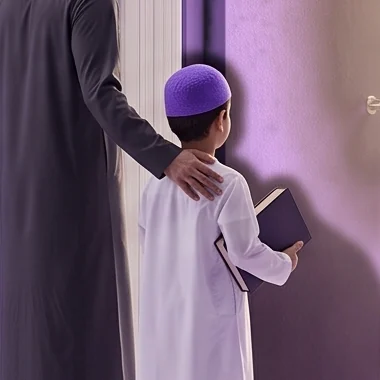
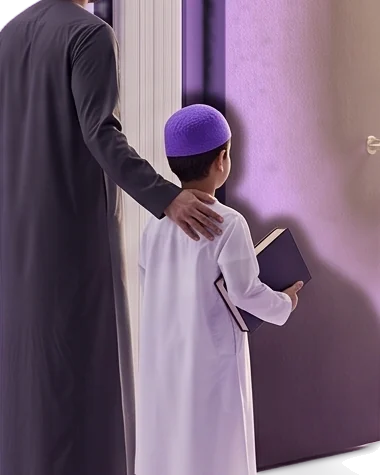
fix(site): prix en grand sans cartes, Tarifs sans grille en double, chapitres en arche, étapes alignées
- Accueil : les deux prix se lisent en grand (150 px à 1440), sans carte ; public et contenu du prix dessous.
- Tarifs : les deux prix du haut sans boîte ; la grille « Le prix de chaque formule », qui les répétait,
  est retirée ; ses mentions (date d'effet, monnaies, taxes) passent sous les prix et le simulateur suit.
  Images : l'arche sombre en haut, le tapis aux remises ; quatre images, chacune une fois.
- Fenêtre des chapitres : une seule forme, l'arche (père et fils recadrés en arche) ; seules les mains
  restent détourées. Texte des chapitres sur la colonne 7, comme les autres paires ; aucune image agrandie.
- Comment ça marche : cartes d'étapes alignées en haut, de même hauteur, l'image sur la moitié de la carte.
- « Les cours en bref » : mot pour mot ; la ligne du prix se lit en grand et s'aligne d'un encart à l'autre.

Claude-Session: https://claude.ai/code/session_01HmAusA3MF1Z2BLvX9RiCbN

diff --git a/site-public/styles/site.css b/site-public/styles/site.css
@@ -358,11 +358,13 @@ li, dd { text-wrap: wrap; }
 .appel__phrase { overflow-wrap: anywhere; }
 .section__grille > *, .contact-ligne > *, .entete-page > *, .groupe > *, .faq-tuiles > * { min-width: 0; }
 .chapitres { display: grid; grid-template-columns: repeat(12, minmax(0, 1fr)); column-gap: var(--e-6); padding: 0 var(--marge) var(--respire); max-width: calc(var(--contenu) + 2 * var(--marge)); margin-inline: auto; }
-.chapitres__fenetre { grid-column: 1 / span 7; position: sticky; top: calc(var(--entete) + 4svh); height: calc(100svh - var(--entete) - 8svh); display: none; }
+.chapitres__fenetre { grid-column: 1 / span 6; position: sticky; top: calc(var(--entete) + 4svh); height: calc(100svh - var(--entete) - 8svh); display: none; }
 .chapitres__pile { position: relative; height: 100%; border-radius: var(--arche); background: var(--champ); overflow: hidden; }
 .chapitres__image { position: absolute; inset: 4%; display: flex; flex-direction: column; justify-content: center; opacity: var(--o, 0); transform: translateY(calc((1 - var(--o, 0)) * 16px)); transition: opacity var(--mv-navigation) var(--mv-entree), transform var(--mv-navigation) var(--mv-entree); }
 .chapitres__image:first-child { --o: 1; }
 .chapitres__image.scene--cercle > .scene__cadre { flex: none; align-self: center; width: min(100%, calc((100svh - var(--entete) - 8svh) * .92)); }
+/* Les arches de la fenetre (rapport 4/5) : jamais plus larges que leur fichier, ni plus hautes que la fenetre. */
+.chapitres__image.scene--arche > .scene__cadre { flex: none; align-self: center; width: min(100%, var(--natif, 100%), calc((100svh - var(--entete) - 8svh) * .92 * .8)); }
 .chapitres__image figcaption { display: none; }
 .chapitres__textes { grid-column: 1 / -1; }
 .chapitre { padding-block: var(--e-16); }
@@ -381,7 +383,8 @@ li, dd { text-wrap: wrap; }
 .chapitre__image-mobile .scene { border-radius: var(--arche); background: var(--champ); padding: 12% 4% 4%; }
 @media (min-width: 840px) {
   .chapitres__fenetre { display: block; }
-  .chapitres__textes { grid-column: 8 / span 5; }
+  /* Le texte des chapitres part du meme bord que les autres paires de la page (colonne 7). */
+  .chapitres__textes { grid-column: 7 / span 6; }
   .chapitre { min-height: 88svh; display: flex; flex-direction: column; justify-content: center; }
   .chapitres { padding-bottom: var(--e-16); }
   /* Le dernier chapitre a la hauteur de la fenetre et se centre sur elle : quand la fenetre se decolle, son texte
@@ -465,12 +468,22 @@ li, dd { text-wrap: wrap; }
 .champ--adulte { background: var(--marque); color: var(--sur-marque); }
 .deux-champs__pied { padding: var(--e-10) var(--marge) 0; max-width: calc(var(--contenu) + 2 * var(--marge)); margin-inline: auto; }
 .deux-champs__pied p { max-width: 60ch; }
+/* Les deux prix se lisent en grand, sans carte : le chiffre porte la section, le public et ce que le prix comprend
+   se posent dessous, en lignes courtes. */
+.champ, .champ--enfant, .champ--adulte { padding: 0; border-radius: 0; overflow: visible; background: none; color: inherit; }
+.champ h3 { font-size: var(--t-moyen); line-height: 1.2; letter-spacing: -0.015em; }
+.champ__prix { margin-top: var(--e-6); column-gap: var(--e-4); }
+.champ__montant { font-size: clamp(64px, 10.4vw, 150px); line-height: 1; letter-spacing: -0.04em; }
+.champ__inclus { padding-top: var(--e-8); }
+/* Empiles au telephone, les deux prix gardent un vrai ecart entre eux. */
+@media (max-width: 599px) { .deux-champs__grille { row-gap: var(--e-16); } }
 @media (min-width: 600px) {
   /* Les deux cartes partagent leurs lignes : titres, prix, public et listes commencent a la meme hauteur. */
   .deux-champs__grille { grid-template-columns: repeat(2, minmax(0, 1fr)); grid-template-rows: auto auto auto 1fr; column-gap: var(--e-6); }
-  .champ { display: grid; grid-row: span 4; grid-template-rows: subgrid; row-gap: 0; align-content: start; min-height: 64svh; padding: var(--e-12) var(--e-10); }
+  .champ { display: grid; grid-row: span 4; grid-template-rows: subgrid; row-gap: 0; align-content: start; min-height: 0; padding: 0; }
   .champ h3 { align-self: end; }
   .champ__inclus { margin-top: 0; align-self: start; font-size: 18px; }
+  .deux-champs__grille { column-gap: var(--e-16); }
 }
 
 /* --- Panneau sombre en retrait ---------------------------------------------- */
@@ -724,6 +737,13 @@ li, dd { text-wrap: wrap; }
 .fiche__lignes li { padding-inline-start: 1.4em; position: relative; }
 .fiche__lignes li::before { content: ''; position: absolute; inset-inline-start: 0; top: .5em; width: .6em; height: .75em; border-radius: var(--arche); background: currentColor; opacity: .55; }
 @media (min-width: 840px) { .fiches:has(.fiche + .fiche) { grid-template-columns: repeat(2, minmax(0, 1fr)); } .fiche { padding: var(--e-10) var(--e-8); } }
+/* Les encarts restent mot pour mot ; seule leur mise en page change : la ligne du prix se lit en grand, sans puce,
+   comme le chiffre d'une affiche, et les autres lignes respirent davantage. */
+.fiche__lignes { gap: var(--e-4); }
+.fiche__lignes li:nth-child(2) { padding-inline-start: 0; margin-block: var(--e-2) var(--e-4); font-family: 'DM Sans', sans-serif; font-weight: 600; font-size: clamp(30px, 3.2vw, 46px); line-height: 1.05; letter-spacing: -0.03em; }
+.fiche__lignes li:nth-child(2)::before { content: none; }
+/* Cote a cote, les deux lignes de prix s'alignent : la premiere ligne de chaque encart reserve deux lignes. */
+@media (min-width: 840px) { .fiches:has(.fiche + .fiche) .fiche__lignes li:first-child { min-height: calc(2lh); } }
 [data-ambiance="violet"] .fiche { background: #4E2983; }
 [data-ambiance="violet"] .fiche:nth-child(2) { background: #8652E6; }
 
@@ -761,15 +781,13 @@ li, dd { text-wrap: wrap; }
 .etape:nth-child(4) { background: var(--marque); color: var(--sur-marque); }
 .etape .scene figcaption { color: inherit; }
 @media (min-width: 840px) {
-  /* Meme contenu dans chaque carte : les bas s'alignent, les hauts montent d'une marche a chaque etape. */
-  .etapes { grid-template-columns: repeat(2, minmax(0, 1fr)); align-items: start; gap: var(--e-4); }
-  .etape { display: grid; grid-template-columns: minmax(0, 7fr) minmax(0, 13fr); grid-template-rows: auto 1fr; column-gap: var(--e-6); align-content: start; border-radius: 200px var(--r-lg) var(--r-lg) var(--r-lg); padding: var(--e-8); }
+  /* Deux cartes par rangee, de meme hauteur et alignees en haut ; l'image prend la moitie de la carte. */
+  .etapes { grid-template-columns: repeat(2, minmax(0, 1fr)); align-items: stretch; gap: var(--e-4); }
+  .etape { display: grid; grid-template-columns: minmax(0, 1fr) minmax(0, 1fr); grid-template-rows: auto 1fr; column-gap: var(--e-8); align-content: start; border-radius: 200px var(--r-lg) var(--r-lg) var(--r-lg); padding: var(--e-8); }
   .etape .section__figure { grid-column: 1; grid-row: 1 / span 2; margin: 0; aspect-ratio: auto; }
   .etape .section__figure .scene { width: 100%; }
   .etape h2, .etape .etape__corps { grid-column: 2; }
   .etape h2 { align-self: end; padding-top: var(--e-4); }
-  /* Les deux etapes de droite descendent d'une marche : l'ordre se lit en escalier. */
-  .etape:nth-child(even) { margin-top: var(--e-12); }
   /* Le texte d'une carte d'etape se lit a 18 px sur environ 40 signes : les lignes se remplissent. */
   .etape .etape__corps { font-size: 18px; }
 }
@@ -944,7 +962,6 @@ li, dd { text-wrap: wrap; }
 }
 @media (max-width: 599px) {
   .site-header__brand img { height: 36px; }
-  .champ h3 { font-size: var(--t-titre); }
   .simulator__fields { grid-template-columns: 1fr; }
   .simulator { padding: var(--e-5); }
   .action-row .cta { flex: 1 1 100%; }
@@ -1075,10 +1092,11 @@ li, dd { text-wrap: wrap; }
    Comment ca marche sur ses etapes, l'Academie sur la boucle. */
 .entete-page--haut-texte, .entete-page--haut-parcours, .entete-page--haut-prix { min-height: 0; padding-bottom: 0; }
 .entete-page--haut-parcours .parcours--haut { margin-top: var(--e-6); }
-.entete-prix { display: grid; gap: var(--e-3); }
-.entete-prix__bloc { display: grid; gap: var(--e-1); padding: var(--e-6); border-radius: var(--r-lg); background: var(--sous); max-width: none; }
-.entete-prix__bloc + .entete-prix__bloc { background: var(--marque); color: var(--sur-marque); }
-.entete-prix__montant { font-family: 'DM Sans', sans-serif; font-weight: 600; font-size: var(--t-affiche); line-height: 1; letter-spacing: -0.02em; font-variant-numeric: tabular-nums; }
+.entete-prix { display: grid; row-gap: var(--e-8); column-gap: var(--e-3); }
+/* Les deux prix du haut de Tarifs, en grand et sans boite, comme sur l'accueil. */
+.entete-prix__bloc { display: grid; gap: var(--e-1); padding: 0; max-width: none; }
+.entete-prix__montant { font-family: 'DM Sans', sans-serif; font-weight: 600; font-size: var(--t-affiche); line-height: 1; letter-spacing: -0.04em; font-variant-numeric: tabular-nums; }
+.entete-prix__note { grid-column: 1 / -1; margin-top: var(--e-4); max-width: 72ch; font-size: var(--t-petit); }
 .entete-prix__periode { font-weight: 600; }
 .entete-page--haut-prix .entete-page__arche { width: min(80%, 320px); justify-self: center; }
 @media (min-width: 840px) {
@@ -1094,7 +1112,7 @@ li, dd { text-wrap: wrap; }
   .entete-page--haut-prix .entete-page__texte { grid-column: 1 / span 7; grid-row: 1; }
   .entete-page--haut-prix .entete-page__arche { grid-column: 9 / -1; grid-row: 1; width: min(100%, 360px); }
   .entete-prix { grid-column: 1 / -1; grid-row: 2; grid-template-columns: repeat(2, minmax(0, 1fr)); column-gap: var(--e-6); }
-  .entete-prix__bloc { grid-template-columns: auto 1fr; column-gap: var(--e-6); align-items: end; padding: var(--e-8) var(--e-10); }
+  .entete-prix__bloc { grid-template-columns: auto 1fr; column-gap: var(--e-6); align-items: end; padding: 0; }
   .entete-prix__montant { grid-row: 1 / span 2; }
 }
 
@@ -1279,7 +1297,6 @@ li, dd { text-wrap: wrap; }
   .entete-page--haut-prix .entete-page__arche { grid-column: 1; width: 100%; justify-self: start; }
   .entete-page--haut-prix .entete-prix { grid-column: 2; }
   /* Cartes de prix cote a cote, plus compactes qu'au bureau. */
-  .champ { min-height: 0; padding: var(--e-8) var(--e-6); }
   .champ__inclus { font-size: 16px; }
   /* La bande d'appel ne garde pas un ecran de vide entre la phrase et le grand mot. */
   .appel__lien { min-height: 0; }

diff --git a/site-public/build_site.py b/site-public/build_site.py
@@ -699,7 +699,7 @@ def libelle_arche(point: str) -> str:
 
 
 def hero_interieur(route: str, page: dict, reglage: dict, images: dict, cta: str, status: str,
-                   tarifs: dict | None = None) -> str:
+                   tarifs: dict | None = None, today: date | None = None) -> str:
     intro = f'<p class="hero-intro">{texte_html(page["intro"])}</p>' if page.get("intro") else ""
     haut = reglage.get("haut")
     titre_long = (" entete-page__texte--long" if len(page["h1"]) > 22 else "") + (" entete-page__texte--tres-long" if len(page["h1"]) > 33 else "")
@@ -728,10 +728,13 @@ def hero_interieur(route: str, page: dict, reglage: dict, images: dict, cta: str
             f'<p class="entete-prix__bloc"><span class="entete-prix__montant">{esc(tarifs_mod.fmt_montant(montant, p["devise"]))}</span>'
             f'<span class="entete-prix__periode">par mois, {hors_taxes}</span><span class="entete-prix__public">{texte_html(public)}</span></p>'
             for montant, public in ((p["tarifEnfantMineur"], f"Enfants et adolescents, de {tarifs_mod.AGE_ENFANT_MIN} à {p['ageAdulte'] - 1} ans"),
-                                    (p["tarifAdulteMineur"], f"Adultes, dès {p['ageAdulte']} ans")))
+                                    (p["tarifAdulteMineur"], f"Adultes, {p['ageAdulte']} ans et plus")))
+        # Les deux prix ne sont dits qu'ici : leurs mentions (date d'effet, monnaies, taxes) se posent dessous.
+        notes = "".join(f'<p class="entete-prix__note">{esc(n)}</p>'
+                        for n in tarifs_mod.notes_prix(tarifs, today or date.today()))
         return (f'<section class="entete-page entete-page--haut-prix">{texte}'
                 f'<div class="entete-page__arche">{scene(images, reglage["image"], "(max-width: 839px) 60vw, 380px", "entete-page__image", prioritaire=True)}</div>'
-                f'<div class="entete-prix" data-revele-enfants>{blocs}</div></section>')
+                f'<div class="entete-prix" data-revele-enfants>{blocs}{notes}</div></section>')
     if haut == "gros-plan":
         # Un gros plan dans une grande arche qui deborde du bord droit : les personnes, pas la porte entiere.
         return (f'<section class="entete-page entete-page--haut-gros-plan">{texte}'
@@ -1038,7 +1041,7 @@ def render_page(route: str, page: dict, site: dict, origin: str, allow_indexing:
         main = render_home(page, images, tarifs, cta)
         classe_page = "page-accueil"
     else:
-        main = hero_interieur(route, page, reglage, images, cta, status, tarifs) + render_inner(route, page, reglage, images, tarifs, today, avis)
+        main = hero_interieur(route, page, reglage, images, cta, status, tarifs, today) + render_inner(route, page, reglage, images, tarifs, today, avis)
         fin = reglage.get("fin")
         if fin:
             main += bande_finale(fin["titre"], fin["phrase"], fin.get("label", page["cta"]["label"]),
@@ -1064,8 +1067,9 @@ def render_page(route: str, page: dict, site: dict, origin: str, allow_indexing:
       <a class="cta" href="/connexion">Commencer mon inscription</a>
     {"</section>" if en_page else "</dialog>"}''' if route in ("/fr/", "/fr/tarifs") else ""
     if en_page:
-        fin_grille = main.index("</section>", main.index('id="grille"')) + len("</section>")
-        main = main[:fin_grille] + simulator + main[fin_grille:]
+        # Le simulateur suit les deux prix du haut : on estime son foyer juste apres avoir lu le prix.
+        fin_haut = main.index("</section>", main.index("entete-page--haut-prix")) + len("</section>")
+        main = main[:fin_haut] + simulator + main[fin_haut:]
         simulator = ""
     image_partage = reglage.get("image") or "chemin"
     largeur_partage = image_largeurs(images, image_partage)[-1]

diff --git a/site-public/bloc_tarifs.py b/site-public/bloc_tarifs.py
@@ -365,6 +365,17 @@ def politique_affichee(tarifs: dict) -> dict:
     return tarifs["suivante"] or tarifs["courante"]
 
 
+def notes_prix(tarifs: dict, aujourdhui: date) -> list[str]:
+    """Les mentions qui accompagnent les prix : date d'effet s'il y a lieu, puis monnaies et taxes du paiement.
+    Les monnaies sont celles de la décision (mentions_sous_la_grille), pas « votre monnaie »."""
+    p = politique_affichee(tarifs)
+    hors_taxes = "hors taxes" if p["horsTaxes"] else "taxes comprises"
+    notes = [f"Prix en {NOMS_DEVISES.get(p['devise'], p['devise'])}, {hors_taxes}. La taxe de votre pays et le montant"
+             " en euros, livres ou dollars canadiens s’affichent au paiement."]
+    date_note = note_date_effet(tarifs, aujourdhui)
+    return [date_note] + notes if date_note else notes
+
+
 def note_date_effet(tarifs: dict, aujourdhui: date) -> str:
     """Phrase sur la date d'effet quand la politique affichée n'est pas encore en vigueur."""
     p = politique_affichee(tarifs)
@@ -422,13 +433,7 @@ def rendre_tarifs_section(nom: str, tarifs: dict, aujourdhui: date) -> str:
     if nom == "grille":
         hors_taxes = "hors taxes" if p["horsTaxes"] else "taxes comprises"
         html_ = _tableau(f"Par élève et par mois, {hors_taxes}", ("Formule", "Prix par mois"), lignes_grille(p))
-        # Les monnaies du paiement sont celles de la décision (mentions_sous_la_grille), pas « votre monnaie ».
-        notes = [f"Prix en {NOMS_DEVISES.get(devise, devise)}, {hors_taxes}. La taxe de votre pays et le montant"
-                 " en euros, livres ou dollars canadiens s’affichent au paiement."]
-        date_note = note_date_effet(tarifs, aujourdhui)
-        if date_note:
-            notes.insert(0, date_note)
-        return html_ + "".join(f'<p class="price-note">{esc(n)}</p>' for n in notes)
+        return html_ + "".join(f'<p class="price-note">{esc(n)}</p>' for n in notes_prix(tarifs, aujourdhui))
     if nom == "remises":
         parties = [_tableau("Remise selon le rang dans le foyer", ("Rang d’inscription", "Remise"),
                             lignes_remises_rang(p))]
